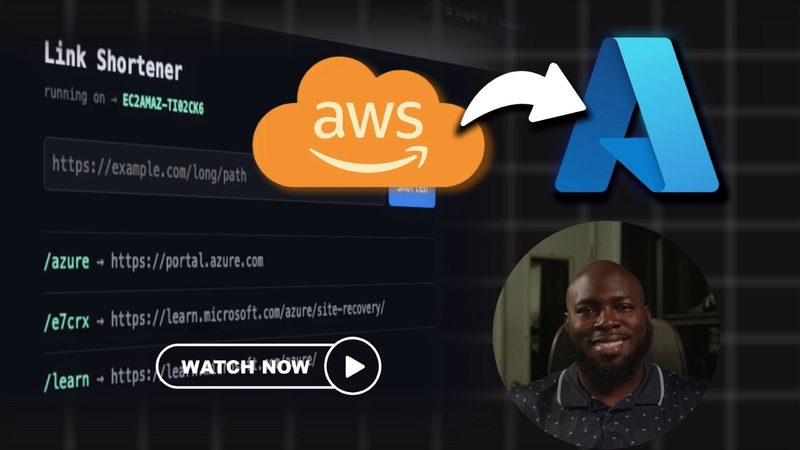
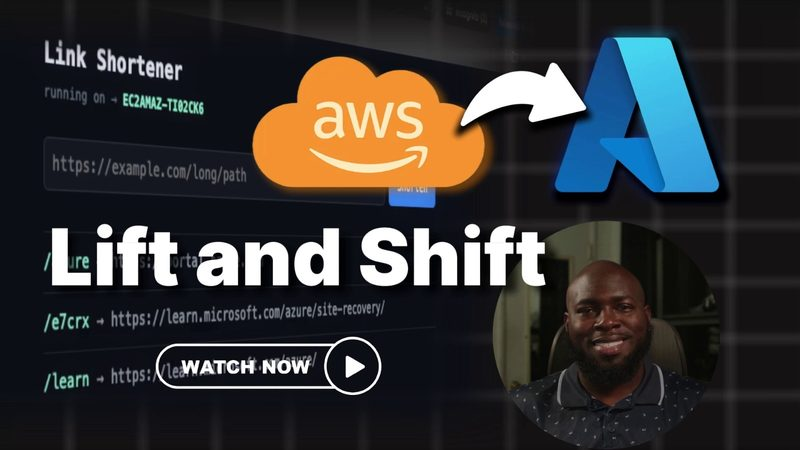
Finalize capstone thumbnail with Lift and Shift title

Changed region(s): [[0.0625, 0.4978, 0.7188, 0.6533]]

diff --git a/site/src/projects.html b/site/src/projects.html
@@ -156,7 +156,7 @@
         <!-- 6 -->
         <article class="project-card">
           <a class="thumb" href="https://youtu.be/K95GP-WKylQ" target="_blank" rel="noopener">
-            <img src="img/thumbs/capstone.jpg" alt="AWS to Azure migration walkthrough" loading="lazy">
+            <img src="img/thumbs/capstone.jpg?v=2" alt="AWS to Azure migration walkthrough" loading="lazy">
             <span class="play" aria-hidden="true"></span>
           </a>
           <span class="project-status status-live">Live</span>
